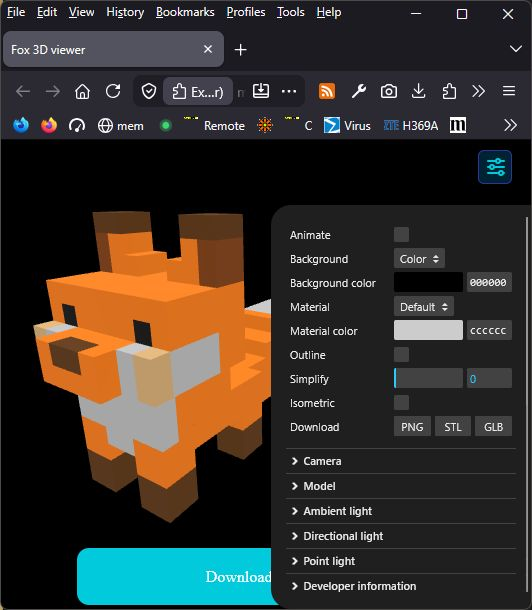
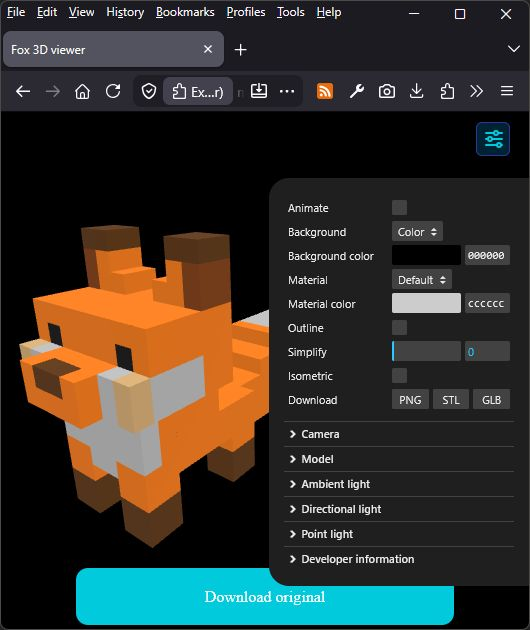
- Removed bookmarks from screenshot

diff --git a/README.md b/README.md
@@ -65,7 +65,7 @@ A stub website is loaded as workaround. The extension is inserted so it loads as
 
 ## 📷 Screenshots
 
-<img src="/screenshots/vox.jpg" height="610" alt="Screenshot of Vox file opened in Fox 3D viewer" /> <a href="/screenshots/settings.png"><img src="/screenshots/settings.png" height="610" alt="Screenshot extension settings" /></a>
+<img src="/screenshots/vox.jpg" height="630" alt="Screenshot of Vox file opened in Fox 3D viewer" /> <a href="/screenshots/settings.png"><img src="/screenshots/settings.png" height="630" alt="Screenshot extension settings" /></a>
 
 ---
 
